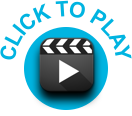
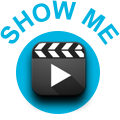
More layout tweaks and wording tweaks

Changed region(s): [[0.0, 0.0, 0.85, 0.9569], [0.675, 0.0517, 1.0, 0.5172], [0.425, 0.5172, 0.6, 0.7241]]

diff --git a/index.html b/index.html
@@ -68,31 +68,22 @@
 			
 		</div>
 		<div id="rightPanel" class="closed">
-
 			<div id="exercise_icon" class = "medicationLifestyle" >
 				<img src="images/heart_v7/exercise.png" alt="home"  onclick="showVideo('5_exercise.mp4')" style="top:10%;height:83%;position:relative">
 			</div>
-			<div id="diet_icon" class = "medicationLifestyle" >
+			<div id="diet_icon" class = "medicationLifestyle" style = "top:1%;position:relative">
 				<img src="images/heart_v7/diet.png" alt="home"  onclick="showVideo('6_diet.mp4')" style="top:10%;height:83%;position:relative">
 			</div>
-			<div id="smoking_icon" class = "medicationLifestyle" >
+			<div id="smoking_icon" class = "medicationLifestyle" style = "top:2%;position:relative" >
 				<img src="images/heart_v7/smoking.png" alt="home"  onclick="showVideo('7_smoking.mp4')" style="top:10%;height:83%;position:relative">
 			</div>		
 		</div>
 		<div id="rightPanelBottom" class = "closed">
-			<div id="aspirin_icon" class = "medicationLifestyle">
-				<img src="images/heart_v7/aspirin.png" alt="home"  onclick="showVideo('4_aspirin.mp4')" style="height:83%;position:relative">
+			<div id="statin_icon" class = "medicationLifestyle" style="top:1%;position:relative">
+				<img src="images/heart_v7/statin.png" alt="home"  onclick="showVideo('3_Statins.mp4')" style="height:83%;position:relative">
 			</div>
-			<div id="statin_icon" class = "medicationLifestyle" >
-				<img src="images/heart_v7/statin.png" alt="home"  onclick="showVideo('3_Statins.mp4')" style="top:10%;height:83%;position:relative">
-			</div>
-		</div>
-		<div id="rightPanelBottom" class = "closed">
-			<div id="aspirin_icon" class = "medicationLifestyle">
-				<img src="images/heart_v7/aspirin.png" alt="home"  onclick="homeClicked()" style="height:83%;position:relative">
-			</div>
-			<div id="statin_icon" class = "medicationLifestyle" >
-				<img src="images/heart_v7/statin.png" alt="home"  onclick="homeClicked()" style="top:10%;height:83%;position:relative">
+			<div id="aspirin_icon" class = "medicationLifestyle" style="top:2%;position:relative">
+				<img src="images/heart_v7/aspirin.png" alt="home"  onclick="showVideo('4_aspirin.mp4')" style="top:10%;height:83%;position:relative">
 			</div>
 		</div>
 		<div id="bottom_control" class="closed">
@@ -142,11 +133,11 @@
 				<b>Muscles pumping blood</b>
 			</div>
 			<div class="leftClickableVideo" onclick="showVideo('1_healthy_heart.mp4')" style="color:rgb(175, 175, 175);">
-				<p>The main job of the heart is to pump blood around the body to meet the demands of the organ systems.</p>
+				<p>The purpose of the heart is to pump blood around the body to meet the demands of the organ systems.</p>
 				<p>The main pumping chambers of the heart are the left and right ventricles.</p>
 			</div>
 
-			<div class="leftDetail" style="color:rgb(175, 175, 175);top:35%;position:relative">
+			<div class="leftDetail" style="color:rgb(175, 175, 175);top:15%;position:relative">
 				<p>Contraction of the thick muscular walls of the ventricles generates the pressure needed to pump blood around the body.</p>
 				<p>Select below to learn about some common heart problems. </p>
 			</div>
@@ -269,7 +260,7 @@
 				<b>Severe muscle damage</b>
 			</div>
 			<div id="NormalHeartAttackDetail" class="leftDetail" style="color:rgb(175, 175, 175);">
-				<p>If left untreated, coronary artery blockages can get worse more which results in more muscle damage. The movement and pumping ability of the heart is severely affected. </p>
+				<p>If left untreated, coronary artery blockages can get worse which results in more muscle damage. The movement and pumping ability of the heart is severely affected. </p>
 			</div>
 			<div class="leftLargeClickable" style="height:300px">
 				<img src="images/heart_v7/coronary_block_severe.png" alt="information" style="float:center" height="300px">
@@ -374,9 +365,9 @@
 		<div id="myRenderer" class="open">
 		</div>
 		
-		<div data-dojo-type="dijit/Dialog" data-dojo-id="videoDialog" id='videoDialog' onHide="pauseVideo()">
+		<div data-dojo-type="dijit/Dialog" data-dojo-id="videoDialog" id='videoDialog' onHide="pauseVideo()" style="background-color:#666;width:980px;height:760px">
     		<table class="dijitDialogPaneContentArea">
-				<video width="960" height="720" id="heart_video" controls>
+				<video width="960" height="720" align="center" style = "left:10px;top:6px;position:relative" id="heart_video"  autoplay>
   					<source src="videos/1_healthy_heart.mp4" type="video/mp4">
 					Your browser does not support the video tag.
 				</video>
@@ -423,6 +414,9 @@
 			var videoURL = "videos/" + videoName;
 			document.getElementById("heart_video").src=videoURL;
 			videoDialog.show();
+			require(["dijit/registry"], function(registry){
+				registry.byId("dialogColor").show();
+			});
 		}
 
 		function displayHalfHeartIcon() {

diff --git a/styles/new_style.css b/styles/new_style.css
@@ -425,13 +425,14 @@ div.leftClickable{
 div.leftClickableVideo{
   background-image: url(../images/heart_v7/video_button.png);
   background-repeat: no-repeat;
-  background-size: 82px 70px;
-  padding-left: 16%;
+  background-size: 20%;
+  background-position: 0% 20%;
+  padding-left: 25%;
   vertical-align: middle;
   position: relative;
   top: 2%;
-  height:10%;
-  width: 90%; 
+  height:30%;
+  width: 80%; 
   font-size: 1.7em;
   z-index:1;
   font-weight: normal;
@@ -630,6 +631,10 @@ div#bottom_control {
  height:18%;
  width:80%;
  position: absolute;
+}
+
+#dialogColor_underlay {
+	background-color:green;
 }
 
 div.progressClickable:hover {
